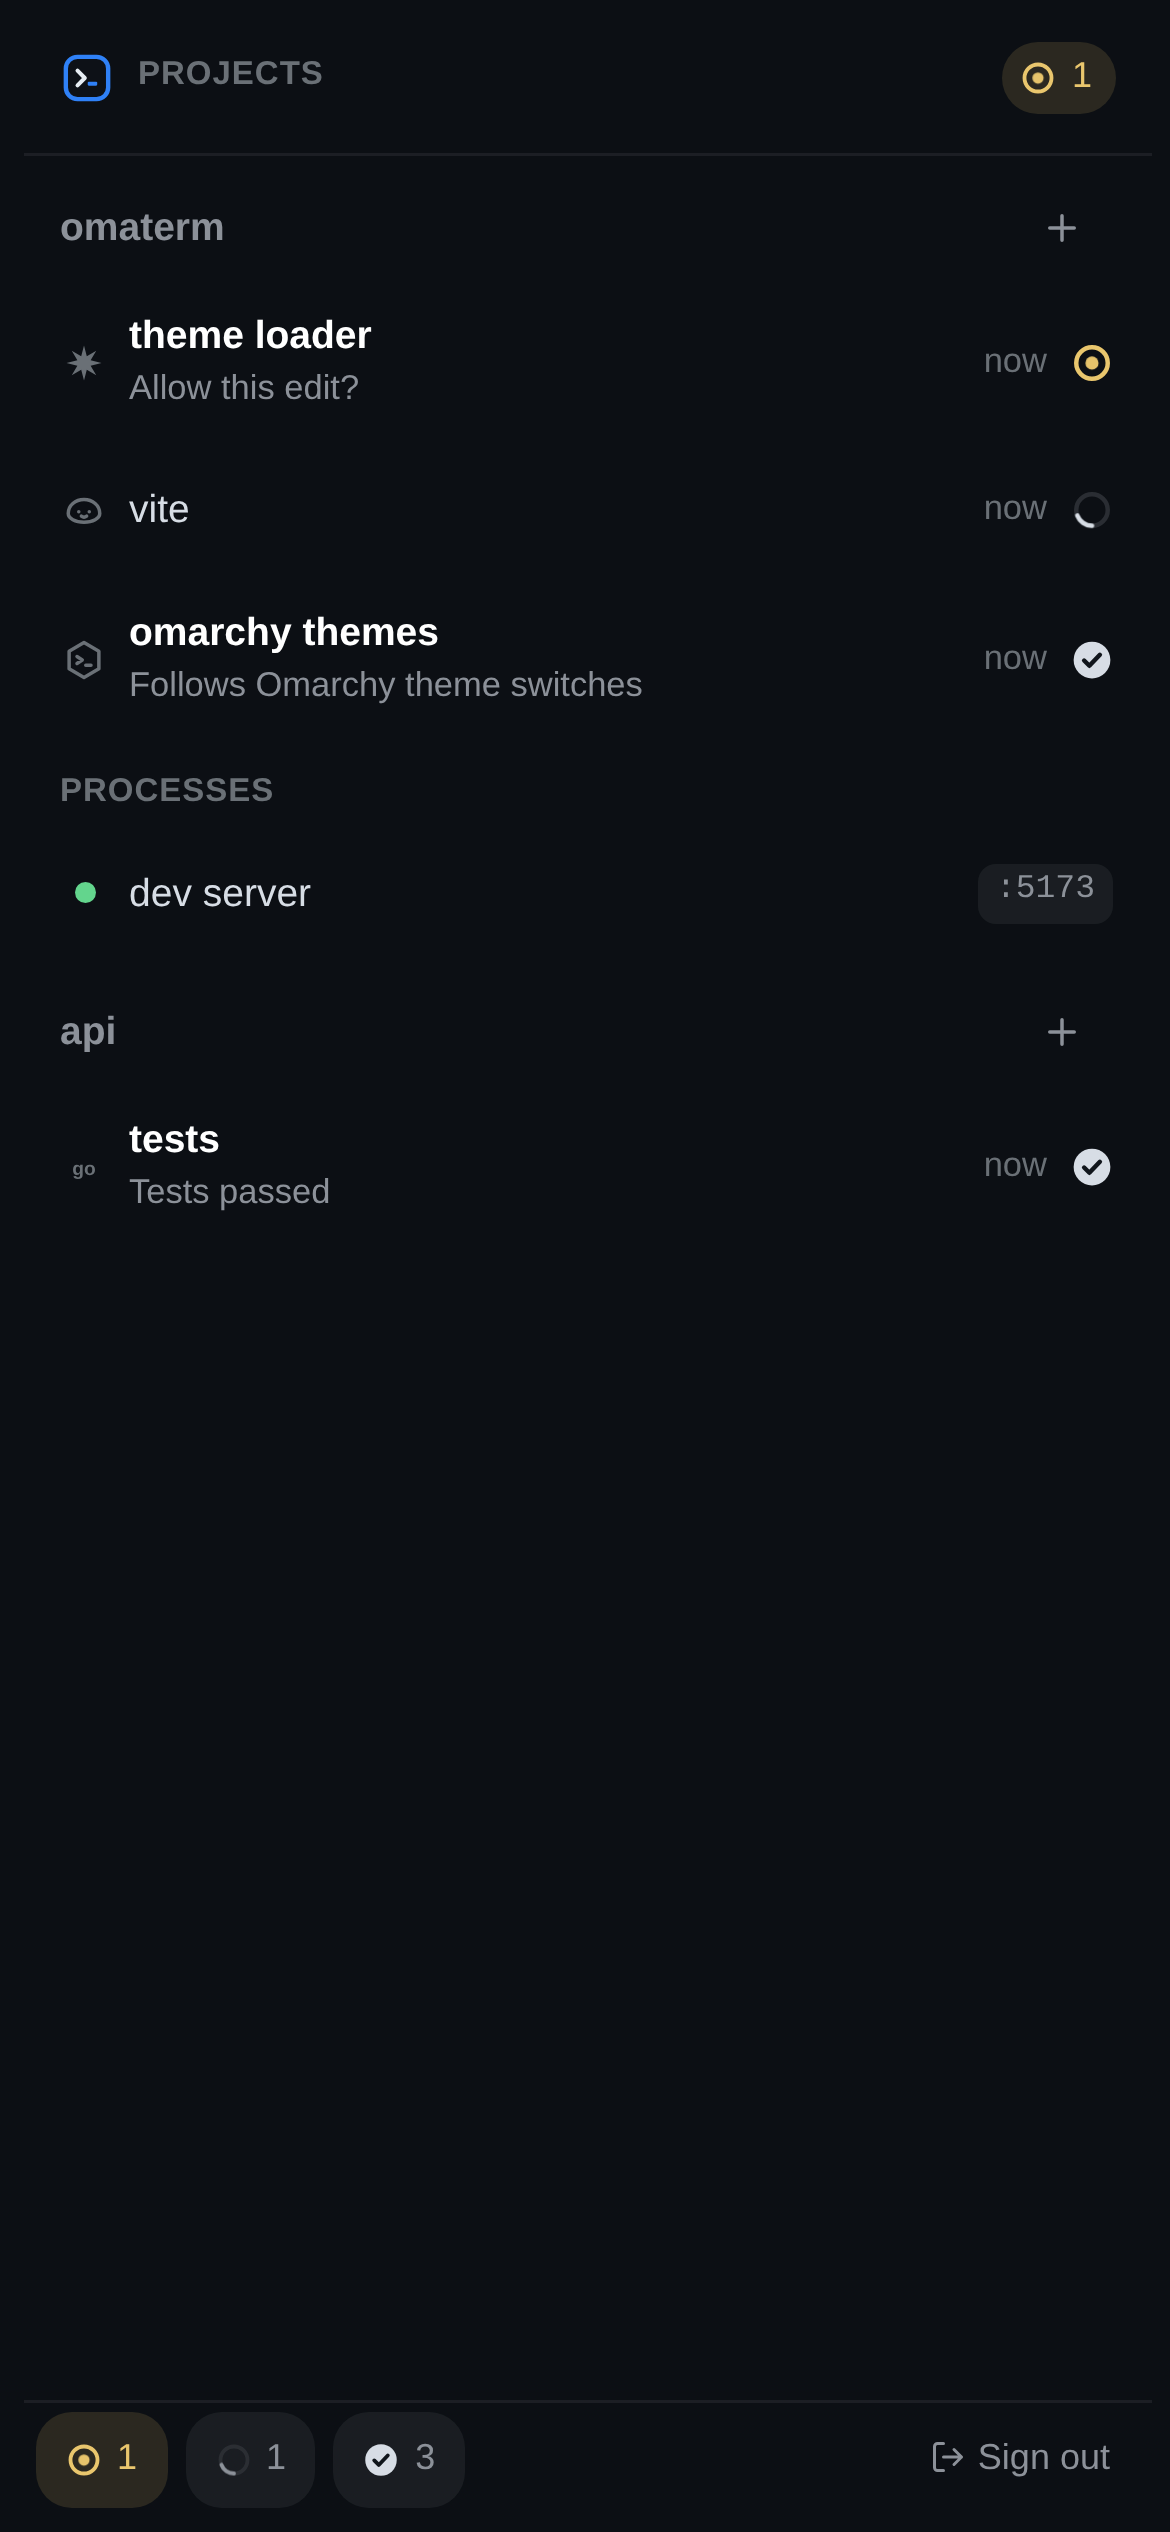
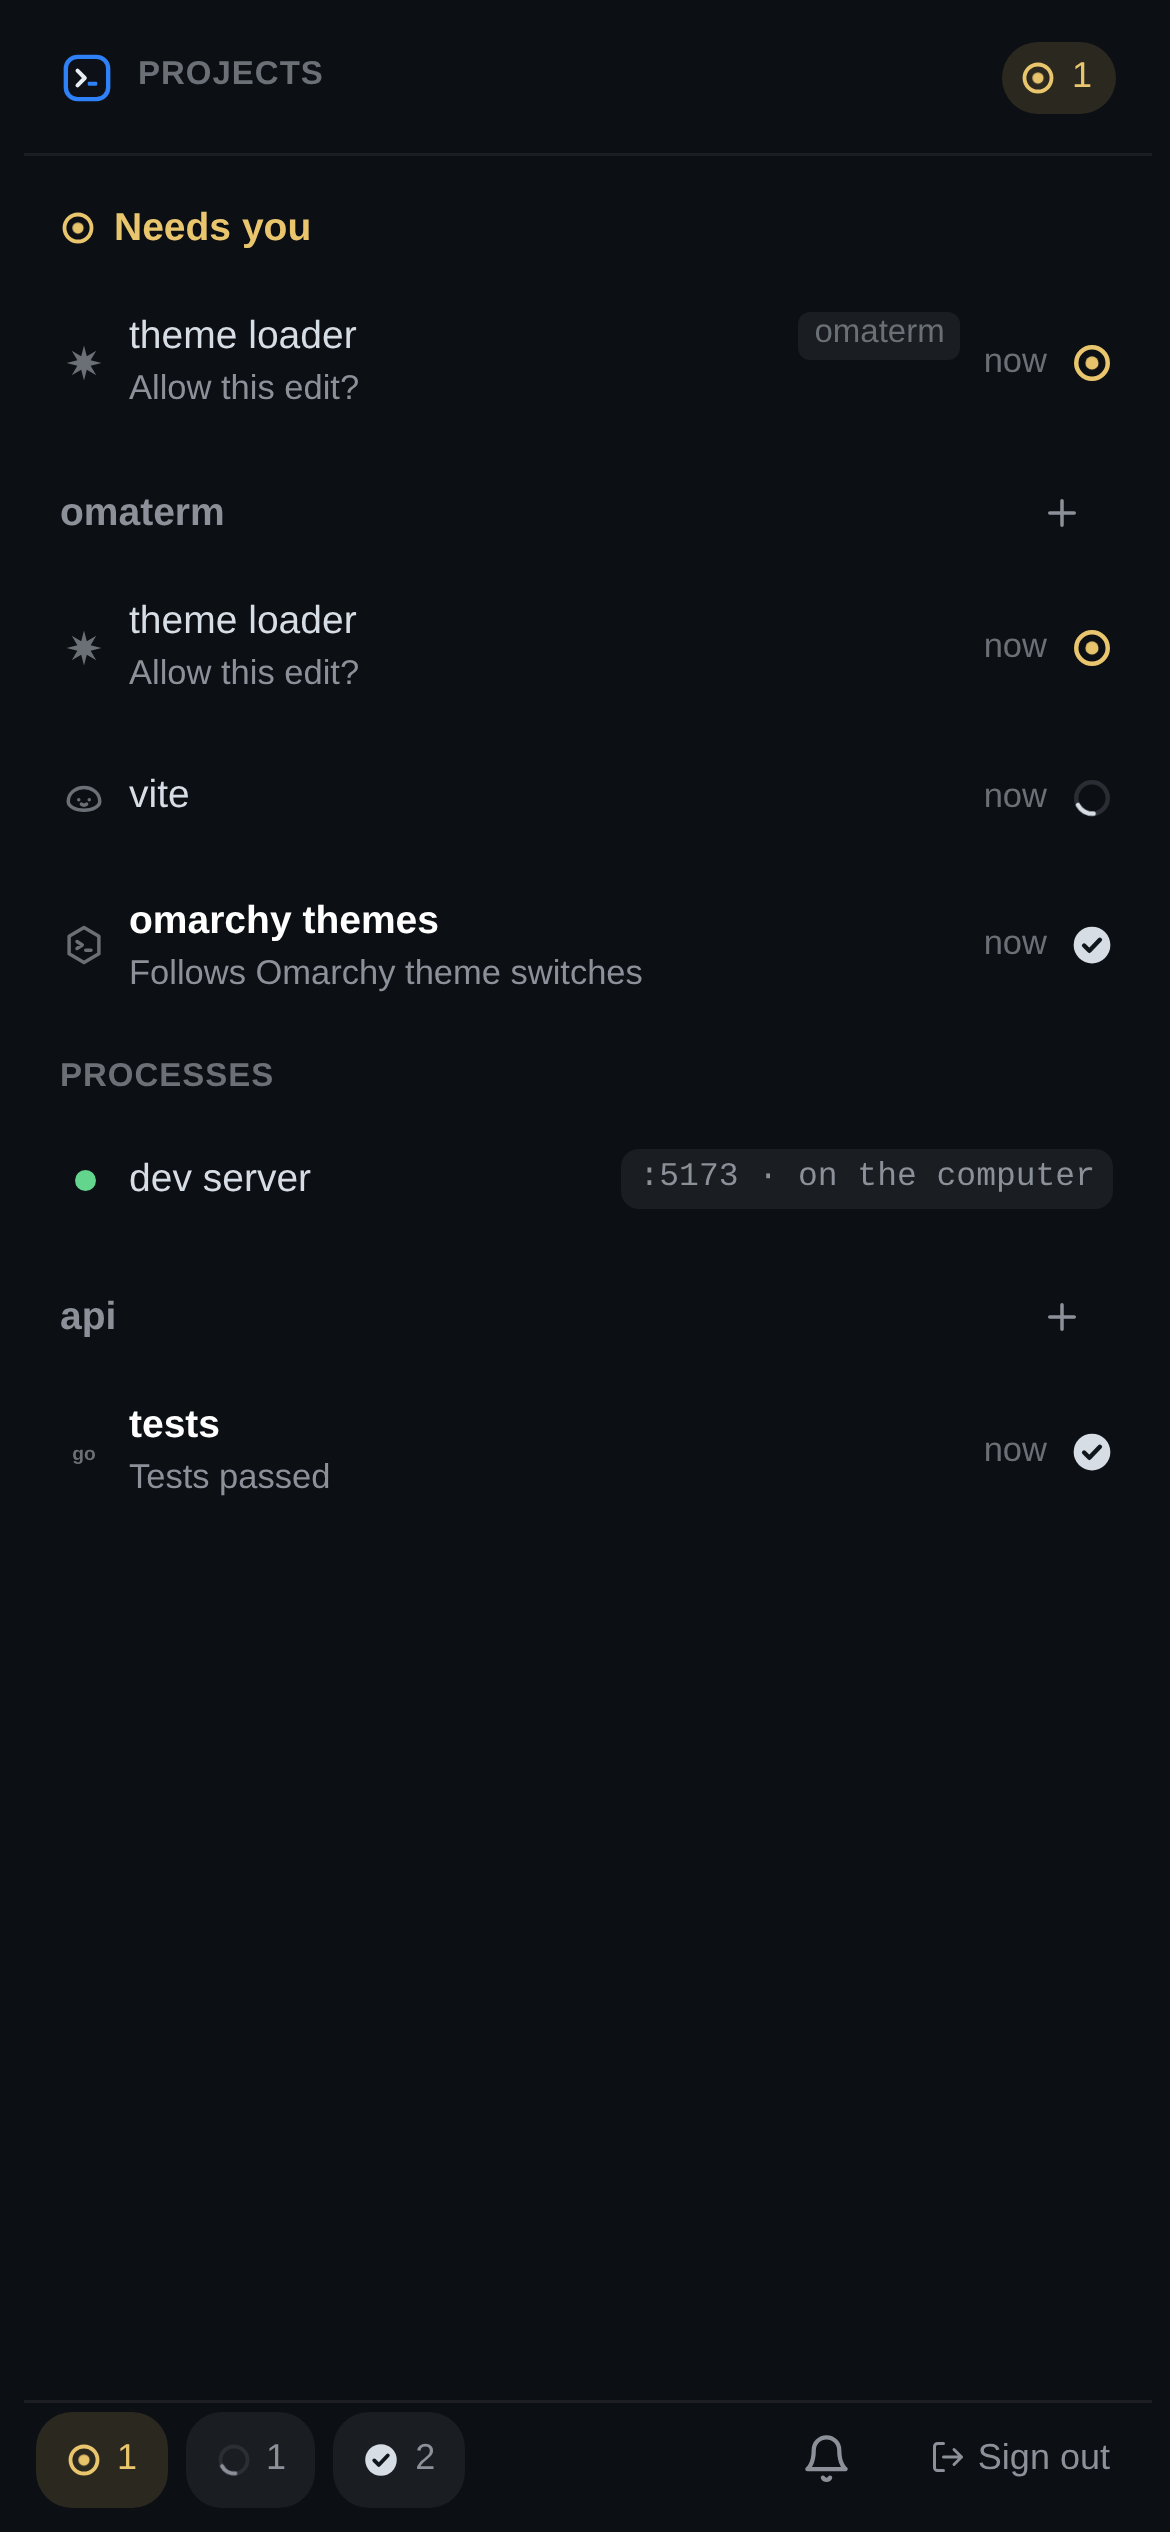
Release 0.14.0

diff --git a/CHANGELOG.md b/CHANGELOG.md
@@ -3,6 +3,80 @@
 The section of a version becomes the release notes of its update, so each
 one is written for the user: what changed, and why it matters.
 
+## 0.14.0
+
+The phone is enough while you're away from the computer. It tells you when
+an agent needs you, answers it in a tap, starts new agents, and reads what
+they changed.
+
+### Notifications
+
+- **The bell in the list turns notifications on for that phone.** A
+  session that needs you, failed or finished reaches the lock screen, but
+  not while you're using the computer. A notification names only the
+  session and what happened, unless you let it show what the agent says.
+  A program's own notifications are a separate choice, off at first.
+- **Add the page to your home screen** to have omaterm as an app. An
+  iPhone needs that for notifications (iOS 16.4 or later), and the app
+  pairs again with a code from `omaterm web pair`.
+- Notifications need HTTPS, through Tailscale or Cloudflare, and no
+  account anywhere: omaterm signs them with a key of its own.
+  `omaterm web devices` says which devices are notified.
+
+### Answering
+
+- **When an agent asks, the whole question shows over the key bar,** with
+  its choices as buttons: one tap answers. While an agent works, **Stop**
+  interrupts it.
+- **Needs you,** at the top of the list, holds the sessions waiting for
+  you or failed, across projects, with the longest waiting first. A
+  session you open on the phone counts as seen on the computer too.
+- **Compose remembers.** **Recent** brings back what you sent before.
+  **When free** lines a prompt up for an agent that is still working:
+  omaterm types it in once the agent is back at its prompt, and you can
+  cancel it until then.
+
+### Reading
+
+The **folder** button in a session's header shows what its agent works on.
+Nothing there edits, stages or commits, and the terminal keeps running
+behind it.
+
+- **Output:** the session's text, to read whole, copy and search, with
+  its links. A process that crashed shows its last lines there.
+- **Files:** the session's folder (an agent's worktree, or else the
+  project), with each file's text or picture.
+- **Changes:** the files it changed, each with its diff, since the last
+  commit or, in a worktree, since its base branch. In a diff, ‹ › go to
+  the next file, long lines wrap, and a tap on a line's number asks the
+  agent about that line.
+
+### Starting
+
+- **+ starts a new agent from the phone:** Claude Code, Codex, OpenCode
+  or another, in a worktree of its own if you like. A first task is typed
+  in once the agent is ready.
+- **📎 in the compose box sends a photo or a screenshot.** omaterm keeps a
+  copy on the computer for a day, without its location, and pastes its
+  path into the prompt.
+
+### Fixes
+
+- **Coming back to the page reconnects on its own,** after the phone was
+  locked or on another network. A Send tapped as it comes back waits for
+  the connection.
+- A process's pill on the phone no longer links to its Dev URL, which is
+  the phone's own loopback there: it reads ":5173 · on the computer", and
+  only a share link is a link.
+- A session led by a browser pane opened as "This session is gone" from a
+  tab, a pill or a chip. It now opens its first terminal.
+- A tablet keeps the key bar and Compose.
+- A row's time moves on each minute.
+- Signing out wipes the phone's drafts and Recent.
+- `omaterm read` still shows a stopped process's last lines. They are kept
+  in memory, never on disk.
+- `omaterm inbox` shows a prompt the phone lined up as from web access.
+
 ## 0.13.2
 
 omaterm moves to mygo 0.7, with new installers and a sidebar row that
